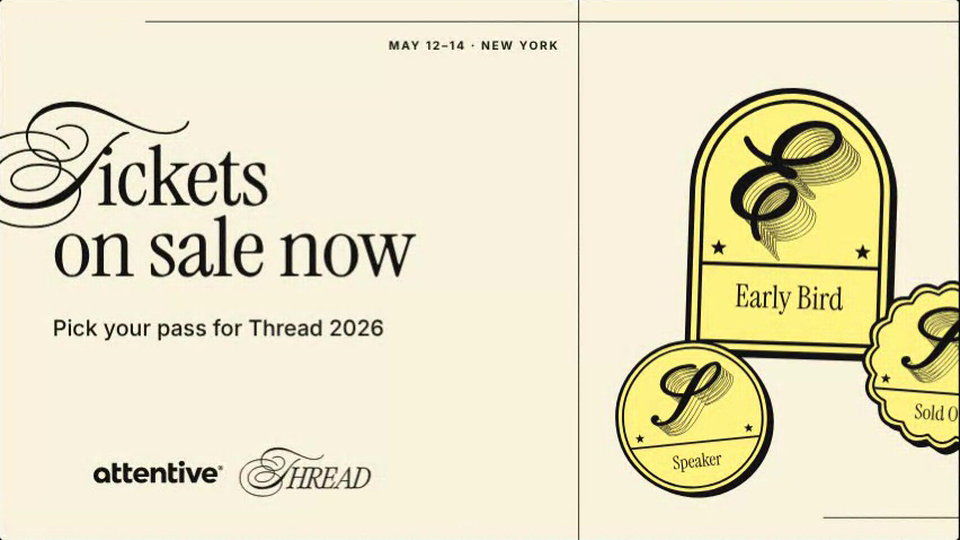
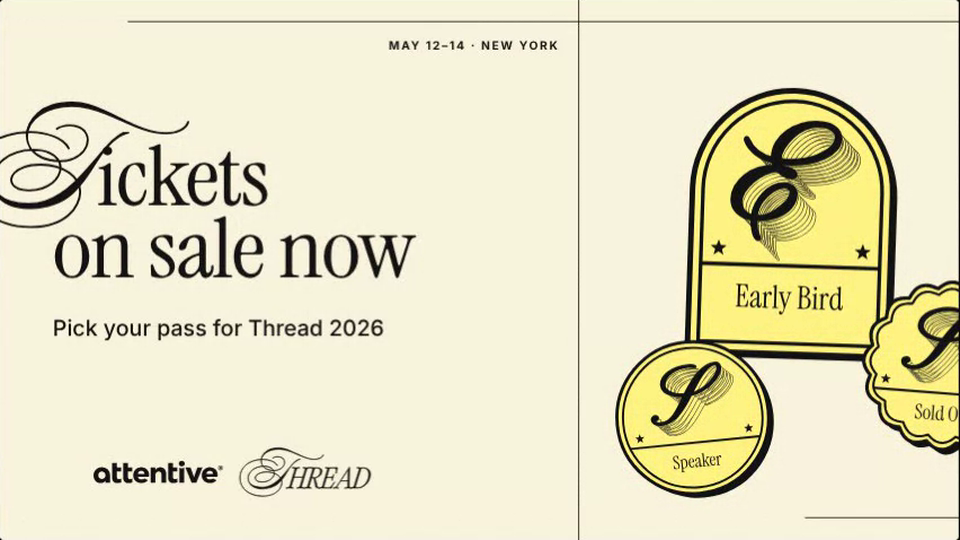
Conference Post Creator: speaker 16:9 calligraphy top right (#336)
* Add Conference Post Generator: Thread 2026 social posts with loops, outlined photos and badges

Claude-Session: https://claude.ai/code/session_01AHeBdzDs1sAKkVKYb3xsdt

* Conference Post Generator: drop loop grid, badges on the right (3-5), Unsplash B&W portraits, single yellow

Claude-Session: https://claude.ai/code/session_01AHeBdzDs1sAKkVKYb3xsdt

* Conference Post Generator: new calligraphy flourish, sharp badges and tag, hairline pattern frame, caps date, one-line speaker name

Claude-Session: https://claude.ai/code/session_01AHeBdzDs1sAKkVKYb3xsdt

* Conference Post Generator: 3D calligraphic letter in badges, tighter headline leading

Claude-Session: https://claude.ai/code/session_01AHeBdzDs1sAKkVKYb3xsdt

* Conference Post Generator: date in the tag's type, more space above the talk title

Claude-Session: https://claude.ai/code/session_01AHeBdzDs1sAKkVKYb3xsdt

* Conference Post Generator: badge names on one line in Title Case

Claude-Session: https://claude.ai/code/session_01AHeBdzDs1sAKkVKYb3xsdt

* Conference Post Generator: date in footer, bigger photos bleeding off the bar, more space under the headline, smaller 16:9 speaker photo

Claude-Session: https://claude.ai/code/session_01AHeBdzDs1sAKkVKYb3xsdt

* Conference Post Generator: headline is photos only, no loops, no badge

Claude-Session: https://claude.ai/code/session_01AHeBdzDs1sAKkVKYb3xsdt
[…]

diff --git a/conference-post-generator/index.html b/conference-post-generator/index.html
@@ -575,7 +575,7 @@ function wrapSlide(ctx, str, fs, maxW) {
 }
 function tSpeaker(ctx, c) {
   const { W, H, fu, th, t, land } = c, pr = panelRect(c, 'top');
-  drawPanel(ctx, c, pr, S.seed + 3, false, 'L', { one: true, k: 1.3 });  // calligraphy in the top-left corner
+  drawPanel(ctx, c, pr, S.seed + 3, false, land ? 'R' : 'L', { one: true, k: 1.3 });  // calligraphy in the top corner: right on 16:9, left on the stacked formats
   const sq = S.fmt === 'square' || S.fmt === 'portrait';  // feed and portrait: big badge on the left, the print overlaps it on the right, text stays still
   if (sq) {
     const bh = pr.h * 0.72, bw = bh * SHAPE_RATIO[S.badgeShape], ph = pr.h * 0.66, pw = ph * 0.8, cy = pr.y + pr.h * 0.54;
